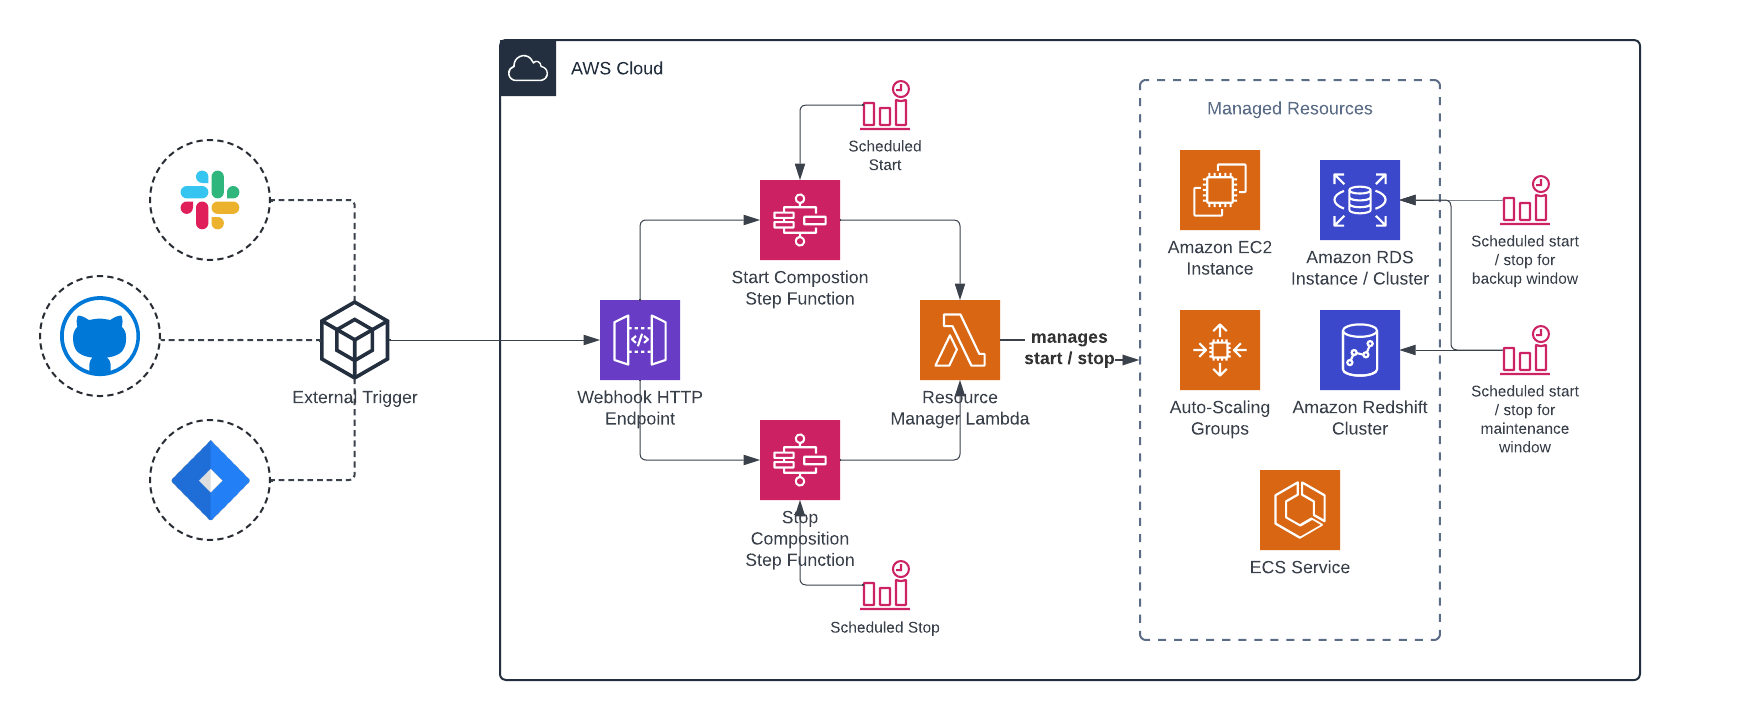
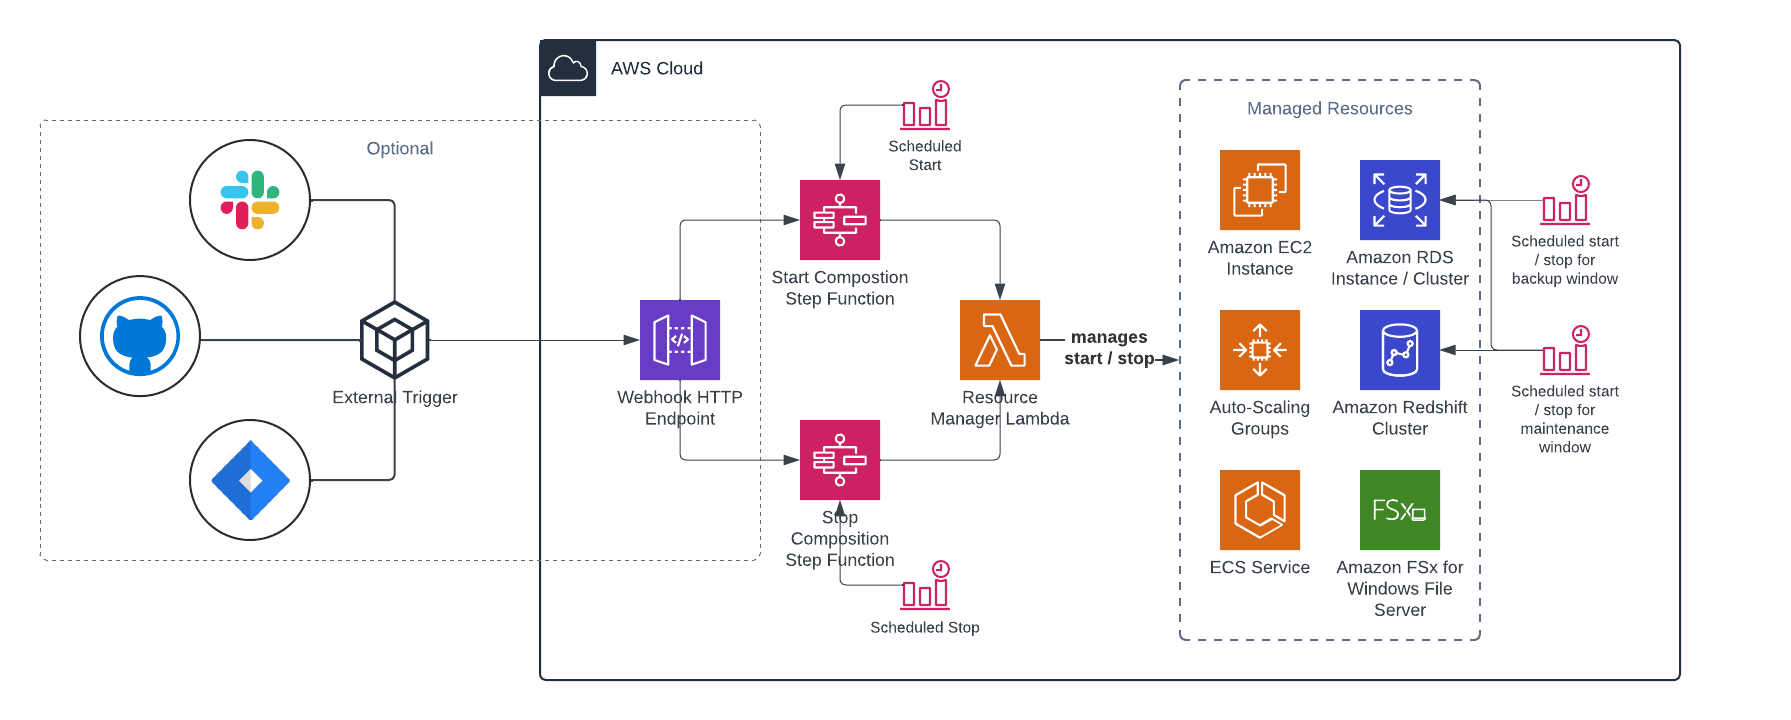
feat: add support for scheduling FSx Windows File System throughput capacity (#6)
* feat: add support for scheduling FSx Windows File System throughput capacity

* chore: Terraform fmt

* fix: tests should work with- and without DST

* chore: refactor fsx windows file system scheduling

* chore: typo in README

* chore: update docs and architecture image

* chore: typo in README

diff --git a/scheduler/scheduler/resource_controllers/fsx_windows_file_system_controller.py b/scheduler/scheduler/resource_controllers/fsx_windows_file_system_controller.py
@@ -1,0 +1,39 @@
+import boto3
+from typing import Tuple
+
+from scheduler.resource_controller import ResourceController
+
+MINIMAL_THROUGHPUT_CAPACITY = 32
+
+fsx = boto3.client("fsx")
+
+
+class FsxWindowsFileSystemController(ResourceController):
+    def __init__(
+        self,
+        id: str,
+        throughput_capacity: str,
+    ):
+        super().__init__()
+        self.id = id
+        self.throughput_capacity = int(throughput_capacity)
+
+    def start(self) -> Tuple[bool, str]:
+        fsx.update_file_system(
+            FileSystemId=self.id,
+            WindowsConfiguration={"ThroughputCapacity": self.throughput_capacity},
+        )
+        return (
+            True,
+            f"Throughput capacity for {self.id} started adjusted to {self.throughput_capacity} MB/s",
+        )
+
+    def stop(self) -> Tuple[bool, str]:
+        fsx.update_file_system(
+            FileSystemId=self.id,
+            WindowsConfiguration={"ThroughputCapacity": MINIMAL_THROUGHPUT_CAPACITY},
+        )
+        return (
+            True,
+            f"Throughput capacity for {self.id} started adjusted to {MINIMAL_THROUGHPUT_CAPACITY} MB/s",
+        )

diff --git a/scheduler/scheduler/scheduler.py b/scheduler/scheduler/scheduler.py
@@ -9,6 +9,9 @@ from scheduler.resource_controllers.ecs_service_controller import EcsServiceCont
 from scheduler.resource_controllers.auto_scaling_group_controller import (
     AutoscalingGroupController,
 )
+from scheduler.resource_controllers.fsx_windows_file_system_controller import (
+    FsxWindowsFileSystemController,
+)
 from scheduler.resource_controllers.rds_cluster_controller import RdsClusterController
 from scheduler.resource_controllers.rds_instance_controller import RdsInstanceController
 from scheduler.resource_controllers.redshift_cluster_controller import (
@@ -58,6 +61,10 @@ def handler(event, _context) -> Dict:
             success, msg = RedshiftClusterController(**params).start()
         case ("redshift_cluster", "stop"):
             success, msg = RedshiftClusterController(**params).stop()
+        case ("fsx_windows_file_system", "start"):
+            success, msg = FsxWindowsFileSystemController(**params).start()
+        case ("fsx_windows_file_system", "stop"):
+            success, msg = FsxWindowsFileSystemController(**params).stop()
 
     if success:
         logger.info(msg)

diff --git a/scheduler/scheduler/schemas.py b/scheduler/scheduler/schemas.py
@@ -11,13 +11,14 @@ INPUT = {
         "resource_type": {
             "type": "string",
             "enum": [
-                "rds_instance",
-                "rds_cluster",
                 "auto_scaling_group",
+                "cron_helper",
                 "ec2_instance",
                 "ecs_service",
+                "fsx_windows_file_system",
+                "rds_cluster",
+                "rds_instance",
                 "redshift_cluster",
-                "cron_helper",
             ],
         },
         "cron_helper_params": {
@@ -71,6 +72,19 @@ INPUT = {
                 "desired": {"type": "string"},
             },
             "required": ["cluster_name", "name", "desired"],
+        },
+        "fsx_windows_file_system_params": {
+            "type": "object",
+            "properties": {
+                "id": {
+                    "type": "string",
+                },
+                "throughput_capacity": {"type": "string"},
+            },
+            "required": [
+                "id",
+                "throughput_capacity",
+            ],
         },
     },
     "allOf": [

diff --git a/scheduler/tests/test_scheduler.py b/scheduler/tests/test_scheduler.py
@@ -179,3 +179,29 @@ def test_scheduler_redshift_cluster_stop(lambda_context):
 
     with pytest.raises(NoCredentialsError):
         handler(payload, lambda_context)
+
+def test_scheduler_fsx_windows_file_system_start(lambda_context):
+    payload = {
+        "resource_type": "fsx_windows_file_system",
+        "action": "start",
+        "fsx_windows_file_system_params": {
+            "id": "fs-1234567890",
+            "throughput_capacity": "512",
+        }
+    }
+
+    with pytest.raises(NoCredentialsError):
+        handler(payload, lambda_context)
+
+def test_scheduler_fsx_windows_file_system_stop(lambda_context):
+    payload = {
+        "resource_type": "fsx_windows_file_system",
+        "action": "stop",
+        "fsx_windows_file_system_params": {
+            "id": "fs-1234567890",
+            "throughput_capacity": "512",
+        }
+    }
+
+    with pytest.raises(NoCredentialsError):
+        handler(payload, lambda_context)

diff --git a/scheduler/tests/test_cron_helper.py b/scheduler/tests/test_cron_helper.py
@@ -9,11 +9,11 @@ def test_can_extend_windows_from_aws_window_with_wday():
     assert out == ("45 23 ? * WED *", "15 2 ? * THU *", False, False)
 
 def test_skips_window_start_if_within_operational_hours():
-    out = extend_windows("Thu:17:30-Thu:18:30", 15, "0 11 ? * * *", "0 20 ? * * *", "Europe/Amsterdam")
+    out = extend_windows("Thu:17:30-Thu:18:30", 15, "0 11 ? * * *", "0 19 ? * * *", "Europe/Amsterdam")
     assert out == ("15 17 ? * THU *", "45 18 ? * THU *", True, False)
 
 def test_skips_window_stop_if_within_operational_hours():
-    out = extend_windows("Thu:08:30-Thu:09:30", 15, "0 11 ? * * *", "0 20 ? * * *", "Europe/Amsterdam")
+    out = extend_windows("Thu:08:30-Thu:09:30", 15, "0 10 ? * * *", "0 20 ? * * *", "Europe/Amsterdam")
     assert out == ("15 8 ? * THU *", "45 9 ? * THU *", False, True)
 
 def test_skips_window_full_if_within_operational_hours():

diff --git a/README.md b/README.md
@@ -13,13 +13,22 @@ It has the following high level architecture:
 
 ### Supported resource types
 
-The following resoure types can be controlled via this scheduler:
+The following resoure types and actions can be controlled via this scheduler:
 
 * EC2 Auto-Scaling Groups
+    * Max size, min size, desired capacity
+* EC2 Instances
+    * Stop/start the instance
 * ECS Services
+    * Set desired tasks
+* FSx Windows File Systems
+    * Set throughput capacity
 * RDS Clusters
+    * Stop/start the cluster
 * RDS Instances
+    * Stop/start the instance
 * Redshift Clusters
+    * Pause/resume the cluster
 
 RDS only support stopping instances / clusters that are not running in multi-AZ mode.
 
@@ -58,6 +67,16 @@ This behaviour is described here: https://docs.aws.amazon.com/AmazonRDS/latest/U
 ### AWS Backup integration
 
 For AWS Backup to be able to create a backup of an RDS instance, it needs to be running. This module is currently not capable of automatically detecting the schedule of any AWS Backup plans. In such cases you will need to manually align the schedules.
+
+### FSx Windows File Systems
+
+FSx Windows File System provisioned throughput is quite expensive. It could be worthwhile to scale down on provisioned throughput during off-hours. Changing provisioned throughput also affects network I/O, memory and disk I/O of the file system.
+
+See https://docs.aws.amazon.com/fsx/latest/WindowsGuide/performance.html for more information.
+
+Throughput can't be changed until 6 hours after the last change was requested. After a throughput change an optimization phase takes place that could take longer than 6 hours; depending on the size off the file system. Throughput can also not be changed during this optimization phase. Use with care.
+
+See https://docs.aws.amazon.com/fsx/latest/WindowsGuide/managing-storage-configuration.html#managing-storage-capacity for more information.
 
 ## Setup
 

diff --git a/examples/on_demand/README.md b/examples/on_demand/README.md
@@ -5,6 +5,7 @@ This example never starts resources on a schedule, but will always attempt to sh
 When starting the resources it follows these steps:
 
 1. Giving the RDS instance with id `application-cluster-1` a start command.
+1. Giving the FSx Windows File System a throughput of 256 MB/s.
 1. Waits 10 minutes for the RDS instance to become available.
 1. Update the ECS service named `application-service-1` on ECS cluster `application-cluster-1` and put the number of desired tasks in the service to 2.
 
